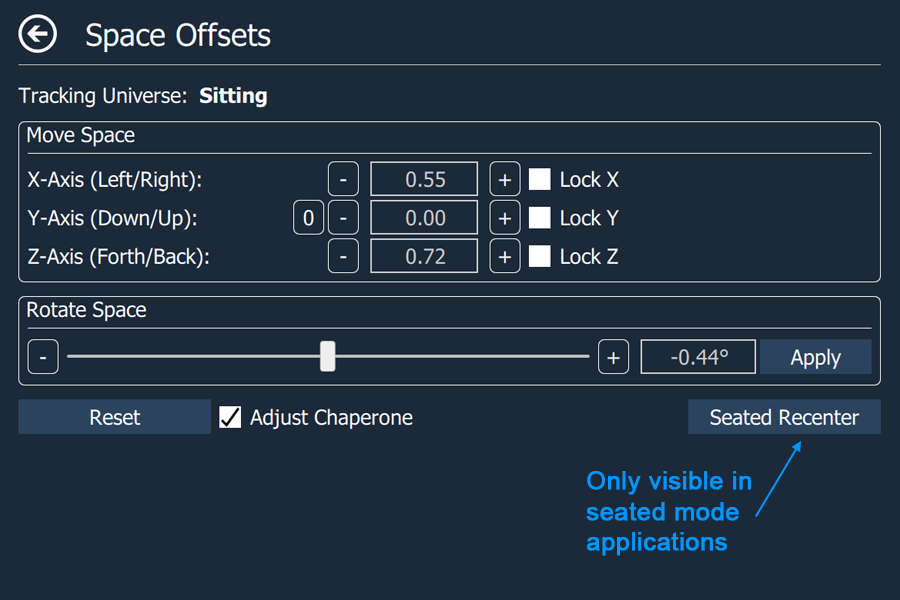
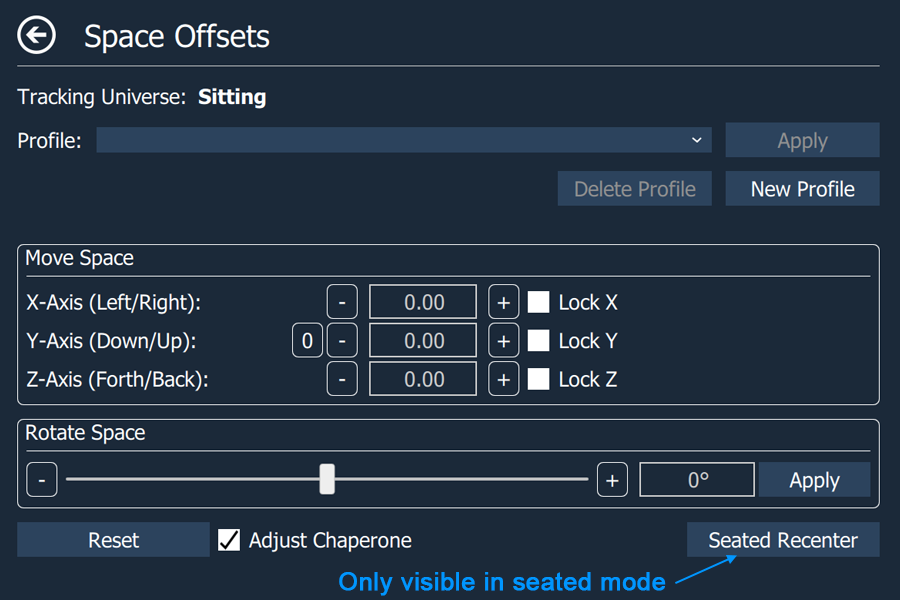
Add offset profiles
Addresses #149

Changed region(s): [[0.0, 0.03, 0.9956, 0.96], [0.3733, 0.96, 0.7467, 0.99], [0.0, 0.78, 0.0311, 0.81]]

diff --git a/src/res/qml/PlayspacePage.qml b/src/res/qml/PlayspacePage.qml
@@ -8,6 +8,69 @@ import "common"
 MyStackViewPage {
     headerText: "Space Offsets"
 
+    MyDialogOkPopup {
+        id: offsetMessageDialog
+        function showMessage(title, text) {
+            dialogTitle = title
+            dialogText = text
+            open()
+        }
+    }
+
+    MyDialogOkCancelPopup {
+        id: offsetDeleteProfileDialog
+        property int profileIndex: -1
+        dialogTitle: "Delete Profile"
+        dialogText: "Do you really want to delete this profile?"
+        onClosed: {
+            if (okClicked) {
+                MoveCenterTabController.deleteOffsetProfile(profileIndex)
+            }
+        }
+    }
+
+    MyDialogOkCancelPopup {
+        id: offsetNewProfileDialog
+        dialogTitle: "Create New Profile"
+        dialogWidth: 800
+        dialogHeight: 400
+        dialogContentItem: ColumnLayout {
+            RowLayout {
+                Layout.topMargin: 16
+                Layout.leftMargin: 16
+                Layout.rightMargin: 16
+                MyText {
+                    text: "Name: "
+                }
+                MyTextField {
+                    id: offsetNewProfileName
+                    keyBoardUID: 105
+                    color: "#cccccc"
+                    text: ""
+                    Layout.fillWidth: true
+                    font.pointSize: 20
+                    function onInputEvent(input) {
+                        offsetNewProfileName.text = input
+                    }
+                }
+            }
+        }
+        onClosed: {
+            if (okClicked) {
+                if (offsetNewProfileName.text == "") {
+                    offsetMessageDialog.showMessage("Create New Profile", "ERROR: Empty profile name.")
+                } else {
+                    MoveCenterTabController.addOffsetProfile(offsetNewProfileName.text)
+                }
+
+            }
+        }
+        function openPopup() {
+            offsetNewProfileName.text = ""
+            open()
+        }
+    }
+
     content: ColumnLayout {
         spacing: 18
 
@@ -27,6 +90,74 @@ MyStackViewPage {
             id: seatedDisableWarningText
             visible: false
             text: "Settings Tab: 'Disable Motion in Seated Mode' checked"
+        }
+
+        ColumnLayout {
+            Layout.bottomMargin: 32
+            spacing: 18
+            RowLayout {
+                spacing: 18
+
+                MyText {
+                    text: "Profile:"
+                }
+
+                MyComboBox {
+                    id: offsetProfileComboBox
+                    Layout.maximumWidth: 799
+                    Layout.minimumWidth: 799
+                    Layout.preferredWidth: 799
+                    Layout.fillWidth: true
+                    model: [""]
+                    onCurrentIndexChanged: {
+                        if (currentIndex > 0) {
+                            offsetApplyProfileButton.enabled = true
+                            offsetDeleteProfileButton.enabled = true
+                        } else {
+                            offsetApplyProfileButton.enabled = false
+                            offsetDeleteProfileButton.enabled = false
+                        }
+                    }
+                }
+
+                MyPushButton {
+                    id: offsetApplyProfileButton
+                    enabled: false
+                    Layout.preferredWidth: 200
+                    text: "Apply"
+                    onClicked: {
+                        if (offsetProfileComboBox.currentIndex > 0) {
+                            MoveCenterTabController.applyOffsetProfile(offsetProfileComboBox.currentIndex - 1)
+                            offsetProfileComboBox.currentIndex = 0
+                        }
+                    }
+                }
+            }
+            RowLayout {
+                spacing: 18
+                Item {
+                    Layout.fillWidth: true
+                }
+                MyPushButton {
+                    id: offsetDeleteProfileButton
+                    enabled: false
+                    Layout.preferredWidth: 200
+                    text: "Delete Profile"
+                    onClicked: {
+                        if (offsetProfileComboBox.currentIndex > 0) {
+                            offsetDeleteProfileDialog.profileIndex = offsetProfileComboBox.currentIndex - 1
+                            offsetDeleteProfileDialog.open()
+                        }
+                    }
+                }
+                MyPushButton {
+                    Layout.preferredWidth: 200
+                    text: "New Profile"
+                    onClicked: {
+                        offsetNewProfileDialog.openPopup()
+                    }
+                }
+            }
         }
 
         GroupBox {
@@ -416,6 +547,7 @@ MyStackViewPage {
                 resetButtonRow.visible = false
                 seatedDisableWarningText.visible = false
             }
+            reloadOffsetProfiles()
         }
 
         Connections {
@@ -481,8 +613,19 @@ MyStackViewPage {
                     seatedDisableWarningText.visible = false
                 }
             }
+            onOffsetProfilesUpdated: {
+                reloadOffsetProfiles()
+            }
         }
 
     }
-
+    function reloadOffsetProfiles() {
+        var profiles = [""]
+        var profileCount = MoveCenterTabController.getOffsetProfileCount()
+        for (var i = 0; i < profileCount; i++) {
+            profiles.push(MoveCenterTabController.getOffsetProfileName(i))
+        }
+        offsetProfileComboBox.currentIndex = 0
+        offsetProfileComboBox.model = profiles
+    }
 }

diff --git a/src/tabcontrollers/MoveCenterTabController.cpp b/src/tabcontrollers/MoveCenterTabController.cpp
@@ -165,6 +165,7 @@ void MoveCenterTabController::initStage1()
         m_disableSeatedMotion = value.toBool();
     }
     settings->endGroup();
+    reloadOffsetProfiles();
     m_lastDragUpdateTimePoint = std::chrono::steady_clock::now();
     m_lastGravityUpdateTimePoint = std::chrono::steady_clock::now();
 }
@@ -174,6 +175,126 @@ void MoveCenterTabController::initStage2( OverlayController* var_parent )
     this->parent = var_parent;
     zeroOffsets();
     outputLogSettings();
+}
+
+void MoveCenterTabController::reloadOffsetProfiles()
+{
+    m_offsetProfiles.clear();
+    auto settings = OverlayController::appSettings();
+    settings->beginGroup( "playspaceSettings" );
+    auto profileCount = settings->beginReadArray( "offsetProfiles" );
+    for ( int i = 0; i < profileCount; i++ )
+    {
+        settings->setArrayIndex( i );
+        m_offsetProfiles.emplace_back();
+        auto& entry = m_offsetProfiles[static_cast<size_t>( i )];
+        entry.profileName
+            = settings->value( "profileName" ).toString().toStdString();
+        entry.offsetX = settings->value( "offsetX", 0.0f ).toFloat();
+        entry.offsetY = settings->value( "offsetY", 0.0f ).toFloat();
+        entry.offsetZ = settings->value( "offsetZ", 0.0f ).toFloat();
+        entry.rotation = settings->value( "rotation", 0 ).toInt();
+    }
+    settings->endArray();
+    settings->endGroup();
+}
+
+void MoveCenterTabController::saveOffsetProfiles()
+{
+    auto settings = OverlayController::appSettings();
+    settings->beginGroup( "playspaceSettings" );
+    settings->beginWriteArray( "offsetProfiles" );
+    unsigned i = 0;
+    for ( auto& p : m_offsetProfiles )
+    {
+        settings->setArrayIndex( static_cast<int>( i ) );
+        settings->setValue( "profileName",
+                            QString::fromStdString( p.profileName ) );
+        settings->setValue( "offsetX", p.offsetX );
+        settings->setValue( "offsetY", p.offsetY );
+        settings->setValue( "offsetZ", p.offsetZ );
+        settings->setValue( "rotation", p.rotation );
+        i++;
+    }
+    settings->endArray();
+    settings->endGroup();
+}
+
+Q_INVOKABLE unsigned MoveCenterTabController::getOffsetProfileCount()
+{
+    return static_cast<unsigned int>( m_offsetProfiles.size() );
+}
+
+Q_INVOKABLE QString
+    MoveCenterTabController::getOffsetProfileName( unsigned index )
+{
+    if ( index >= m_offsetProfiles.size() )
+    {
+        return QString();
+    }
+    else
+    {
+        return QString::fromStdString( m_offsetProfiles[index].profileName );
+    }
+}
+
+void MoveCenterTabController::addOffsetProfile( QString name )
+{
+    OffsetProfile* profile = nullptr;
+    for ( auto& p : m_offsetProfiles )
+    {
+        if ( p.profileName.compare( name.toStdString() ) == 0 )
+        {
+            profile = &p;
+            break;
+        }
+    }
+    if ( !profile )
+    {
+        auto i = m_offsetProfiles.size();
+        m_offsetProfiles.emplace_back();
+        profile = &m_offsetProfiles[i];
+    }
+    profile->profileName = name.toStdString();
+    profile->offsetX = m_offsetX;
+    profile->offsetY = m_offsetY;
+    profile->offsetZ = m_offsetZ;
+    profile->rotation = m_rotation;
+    saveOffsetProfiles();
+    OverlayController::appSettings()->sync();
+    emit offsetProfilesUpdated();
+}
+
+void MoveCenterTabController::applyOffsetProfile( unsigned index )
+{
+    if ( index < m_offsetProfiles.size() )
+    {
+        auto& profile = m_offsetProfiles[index];
+        m_rotation = profile.rotation;
+        m_offsetX = profile.offsetX;
+        m_offsetY = profile.offsetY;
+        m_offsetZ = profile.offsetZ;
+        emit rotationChanged( m_rotation );
+        emit offsetXChanged( m_offsetX );
+        emit offsetYChanged( m_offsetY );
+        emit offsetZChanged( m_offsetZ );
+        LOG( INFO ) << "Applying Offset Profile:" << profile.profileName
+                    << " X:" << m_offsetX << " Y:" << m_offsetY
+                    << " Z:" << m_offsetZ << " Rotation:"
+                    << ( static_cast<float>( m_rotation ) / 100 );
+    }
+}
+
+void MoveCenterTabController::deleteOffsetProfile( unsigned index )
+{
+    if ( index < m_offsetProfiles.size() )
+    {
+        auto pos = m_offsetProfiles.begin() + index;
+        m_offsetProfiles.erase( pos );
+        saveOffsetProfiles();
+        OverlayController::appSettings()->sync();
+        emit offsetProfilesUpdated();
+    }
 }
 
 void MoveCenterTabController::outputLogSettings()

diff --git a/src/tabcontrollers/MoveCenterTabController.h b/src/tabcontrollers/MoveCenterTabController.h
@@ -24,6 +24,15 @@ constexpr double k_maxOvrasUniverseCenteredTurningOffset = 25000.0;
 
 class OverlayController;
 
+struct OffsetProfile
+{
+    std::string profileName;
+    float offsetX = 0.0f;
+    float offsetY = 0.0f;
+    float offsetZ = 0.0f;
+    int rotation = 0;
+};
+
 class MoveCenterTabController : public QObject
 {
     Q_OBJECT
@@ -210,6 +219,8 @@ private:
     void outputLogHmdMatrix( vr::HmdMatrix34_t hmdMatrix );
     void outputLogSettings();
 
+    std::vector<OffsetProfile> m_offsetProfiles;
+
 public:
     void initStage1();
     void initStage2( OverlayController* parent );
@@ -251,6 +262,11 @@ public:
     double getHmdYawTotal();
     void resetHmdYawTotal();
     void incomingSeatedReset();
+
+    void reloadOffsetProfiles();
+    void saveOffsetProfiles();
+    Q_INVOKABLE unsigned getOffsetProfileCount();
+    Q_INVOKABLE QString getOffsetProfileName( unsigned index );
 
     // actions:
     void leftHandSpaceDrag( bool leftHandDragActive );
@@ -324,6 +340,10 @@ public slots:
     void outputLogPoses();
     void zeroOffsets();
 
+    void addOffsetProfile( QString name );
+    void applyOffsetProfile( unsigned index );
+    void deleteOffsetProfile( unsigned index );
+
 signals:
     void trackingUniverseChanged( int value );
     void offsetXChanged( float value );
@@ -357,6 +377,8 @@ signals:
     void universeCenteredRotationChanged( bool value );
     void enableSeatedOffsetsRecenterChanged( bool value );
     void disableSeatedMotionChanged( bool value );
+
+    void offsetProfilesUpdated();
 };
 
 } // namespace advsettings

diff --git a/Readme.md b/Readme.md
@@ -278,7 +278,7 @@ These version are not stable and this should be considered for advanced users on
 
 <img src="docs/screenshots/OffsetPage.png" width="600" alt="Space Offsets Page">
 
-Allows users to temporarily move and rotate the center of the playspace. This allows to reach interaction elements that are just outside our real-world walls or otherwise inaccessible (e.g. when your playspace is smaller than the recommended one). Can also be used to discover the terrors that lie outside of the intended playspace (ever wondered what's behind the door in The Lab?).
+Allows users to temporarily move and rotate the center of the playspace. This allows reaching interaction elements that are just outside our real-world walls or otherwise inaccessible (e.g. when your playspace is smaller than the recommended one). Can also be used to discover the terrors that lie outside of the intended playspace (ever wondered what's behind the door in The Lab?).
 
 - **Adjust Chaperone**: When enabled, the chaperone bounds stay accurate even when the playspace is moved or rotated (so noone gets hurt). Depending on chaperone mode this may or may not adjust with height.
 - **Seated Recenter**: When clicked, applies the current location and angle of the headset to the offsets such that the user is brought to a centered position. Also applies the current headset height to the default seated height (not visible in offsets). This action will also be activated automatically when a seated application sends a reset center command. *Note: This button is only visible when running seated applications.*
@@ -347,7 +347,7 @@ Allows users to temporarily move and rotate the center of the playspace. This al
 
 <img src="docs/screenshots/UtilitiesPage.png" width="600" alt="Utilities Page">
 
-- **Keyboard Utilities:** Some applications (mostly 2D-monitor applications with tackled-on/modded-in VR support) do not support the VR keyboard but require an actual physical keyboard for text input. This utilities allow to send emulated key strokes from VR keyboard input to such application to overcome this limitation. Does not work in desktop mode. The "Keyboard Input" button works as described [here](docs/specs/Keyboard_Manager-Parser_Spec.md).
+- **Keyboard Utilities:** Some applications (mostly 2D-monitor applications with tackled-on/modded-in VR support) do not support the VR keyboard but require an actual physical keyboard for text input. This utilities allow to send emulated key strokes from VR keyboard input to such application to overcome this limitation. Does not work in desktop mode. Adding vrcDebug=true to [utilitiesSettings] in the OpenVRAdvancedSettings.ini will display some buttons for VRChat debug overlay keybinds. The "Keyboard Input" button works as described [here](docs/specs/Keyboard_Manager-Parser_Spec.md).
 
 - **Alarm Clock:** Just a simple alarm clock so you don't miss important appointments. VR can sure mess up perception of time. Does not work in desktop mode.
 
@@ -388,6 +388,9 @@ Allows users to temporarily move and rotate the center of the playspace. This al
 - **Allow External App Chaperone Edits:** Incorporates changes to the chaperone and universe center made by other applications. These changes could come from anywhere, including apps with unpredictable interactions with Advanced Settings. Therefore, this option opens the potential for chaperone misalignment or corruption. However it also allows other chaperone tweaking tools to function in tandem with Advanced Settings. **This option should only be checked if required for compatibility with other apps.** *Note: Changes will only take effect when offsets and rotation are all zero.*
 - **Old-Style Motion:** Uses the old system of writing the chaperone universe center and bounds to disk every frame. Use this option only if you experience issues with playspace motion such as snapping back to reset position after releasing a space-drag. This old mode is smooth on most systems but is in theory less performant than the normal method.
 - **Universe-Centered Rotation:** Causes Rotation to be applied to Universe Center Rather than HMD (Disables offsets automatically compensating to pivot at the HMD).
+- **Enable Auto-set Seated Offsets During Seated Recenter:** Stops the Space Offsets tab offsets from moving you to the center during seated mode recentering. (In case the offset recentering interferes with position in some applications).
+- **Disable All Motion Features When in Seated Mode:** Use this if Advanced Settings causes strange positioning in a seated application. (Different apps handle seated mode in different ways, some are less compatible with Advanced Settings). Note: all Space Offsets and Motion tab features will be disabled.
+- **Disable App Vsync:** Allows setting a custom base update rate for Advanced Settings. (Might be useful on HMDs with very high or very low refresh rates).
 
 # How to Compile
 
